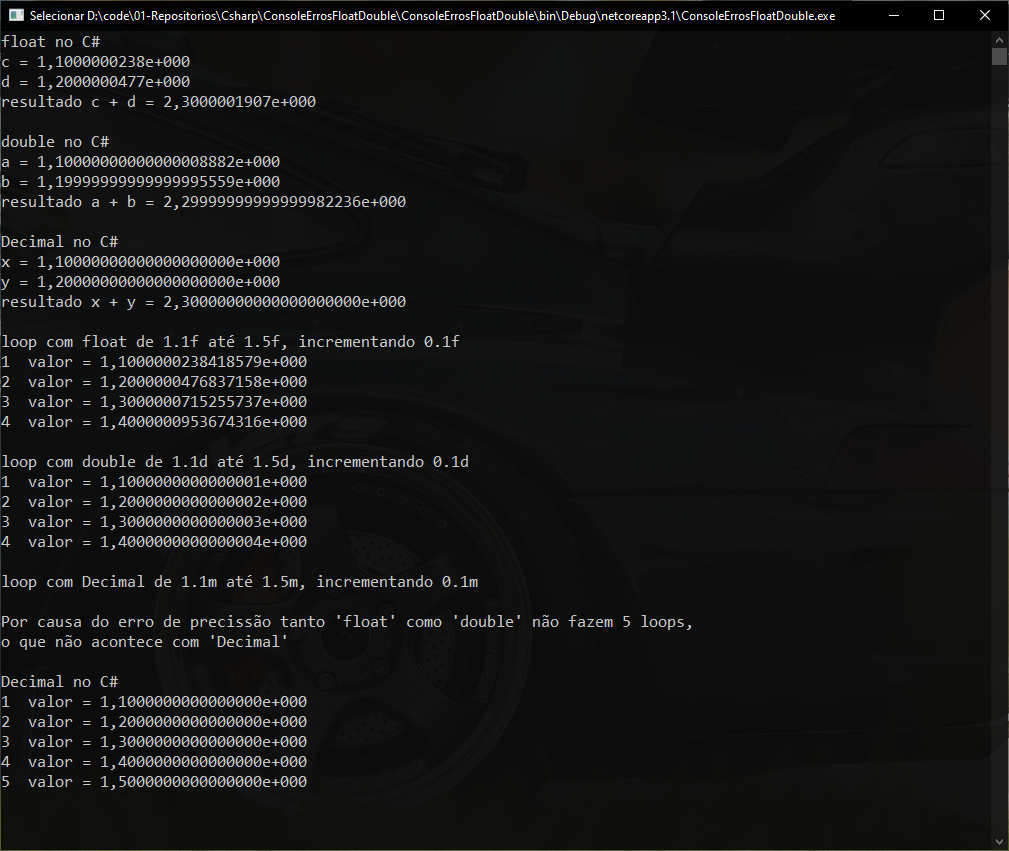
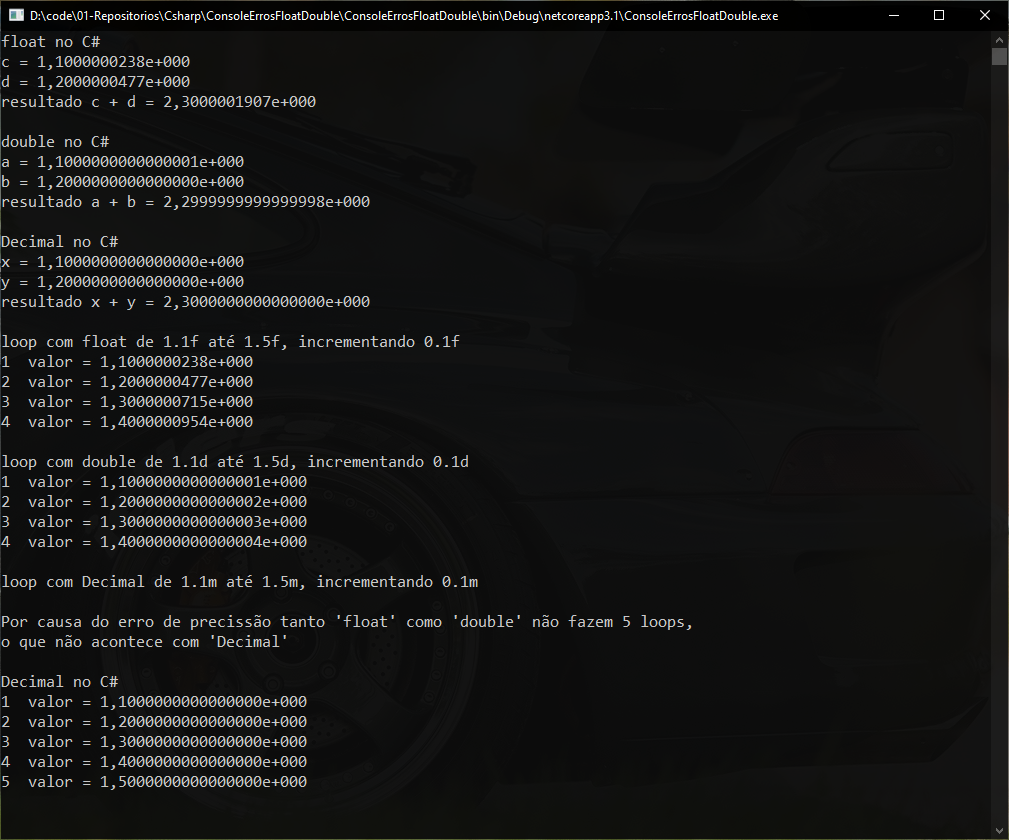
ajustes

diff --git a/ConsoleErrosFloatDouble/ConsoleErrosFloatDouble/Program.cs b/ConsoleErrosFloatDouble/ConsoleErrosFloatDouble/Program.cs
@@ -31,9 +31,9 @@ namespace ConsoleErrosFloatDouble
             double b = 1.2d;
             double r = a + b;
 
-            Console.WriteLine("a = " + a.ToString("e20"));
-            Console.WriteLine("b = " + b.ToString("e20"));
-            Console.WriteLine("resultado a + b = " + r.ToString("e20"));
+            Console.WriteLine("a = " + a.ToString("e16"));
+            Console.WriteLine("b = " + b.ToString("e16"));
+            Console.WriteLine("resultado a + b = " + r.ToString("e16"));
 
             Console.WriteLine();
 
@@ -44,10 +44,10 @@ namespace ConsoleErrosFloatDouble
 
             Decimal resultado = x + y;
 
-            Console.WriteLine("x = " + x.ToString("e20"));
-            Console.WriteLine("y = " + y.ToString("e20"));
+            Console.WriteLine("x = " + x.ToString("e16"));
+            Console.WriteLine("y = " + y.ToString("e16"));
 
-            Console.WriteLine("resultado x + y = " + resultado.ToString("e20"));
+            Console.WriteLine("resultado x + y = " + resultado.ToString("e16"));
 
             Console.WriteLine();
 
@@ -56,7 +56,7 @@ namespace ConsoleErrosFloatDouble
             int cont = 1;
             for (float i = 1.1f; i <= 1.5f; i += 0.1f)
             {
-                Console.WriteLine((cont++) + "  valor = " + i.ToString("e16"));
+                Console.WriteLine((cont++) + "  valor = " + i.ToString("e10"));
             }
 
             Console.WriteLine();
